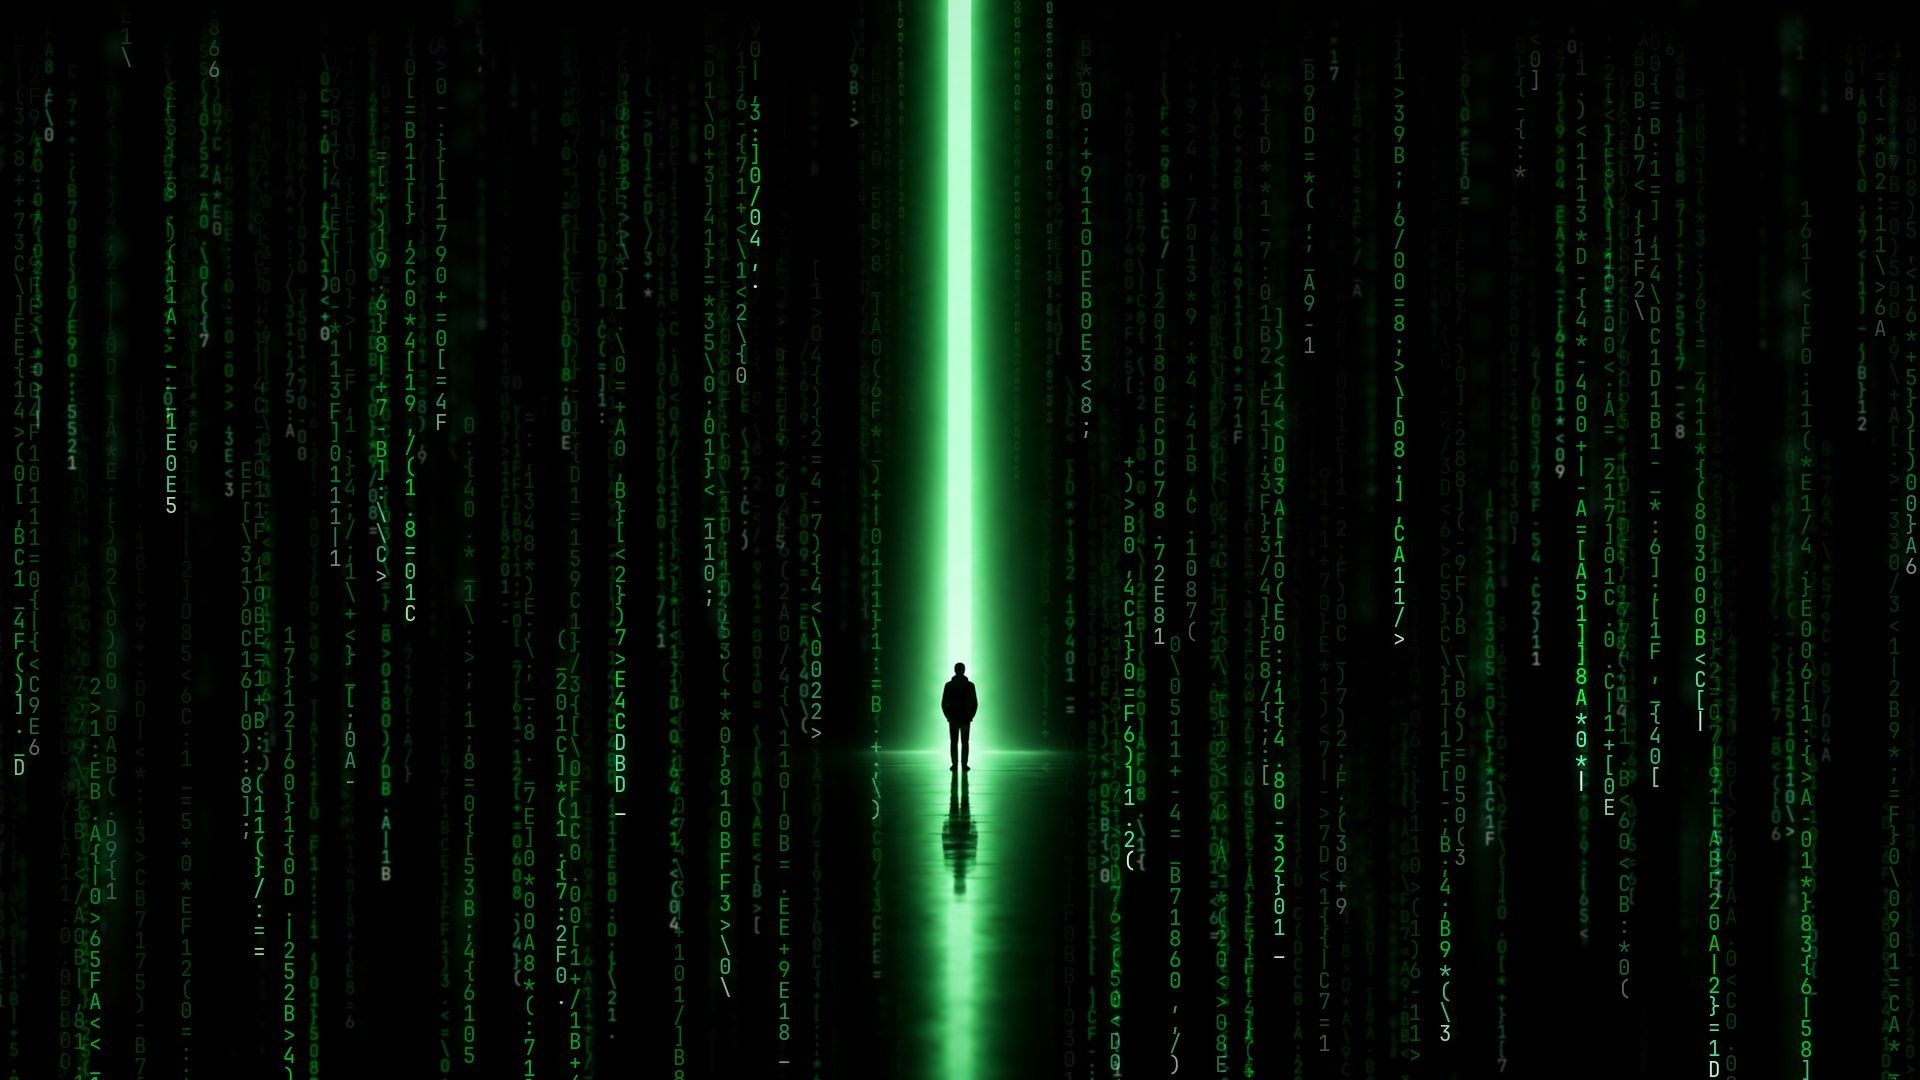
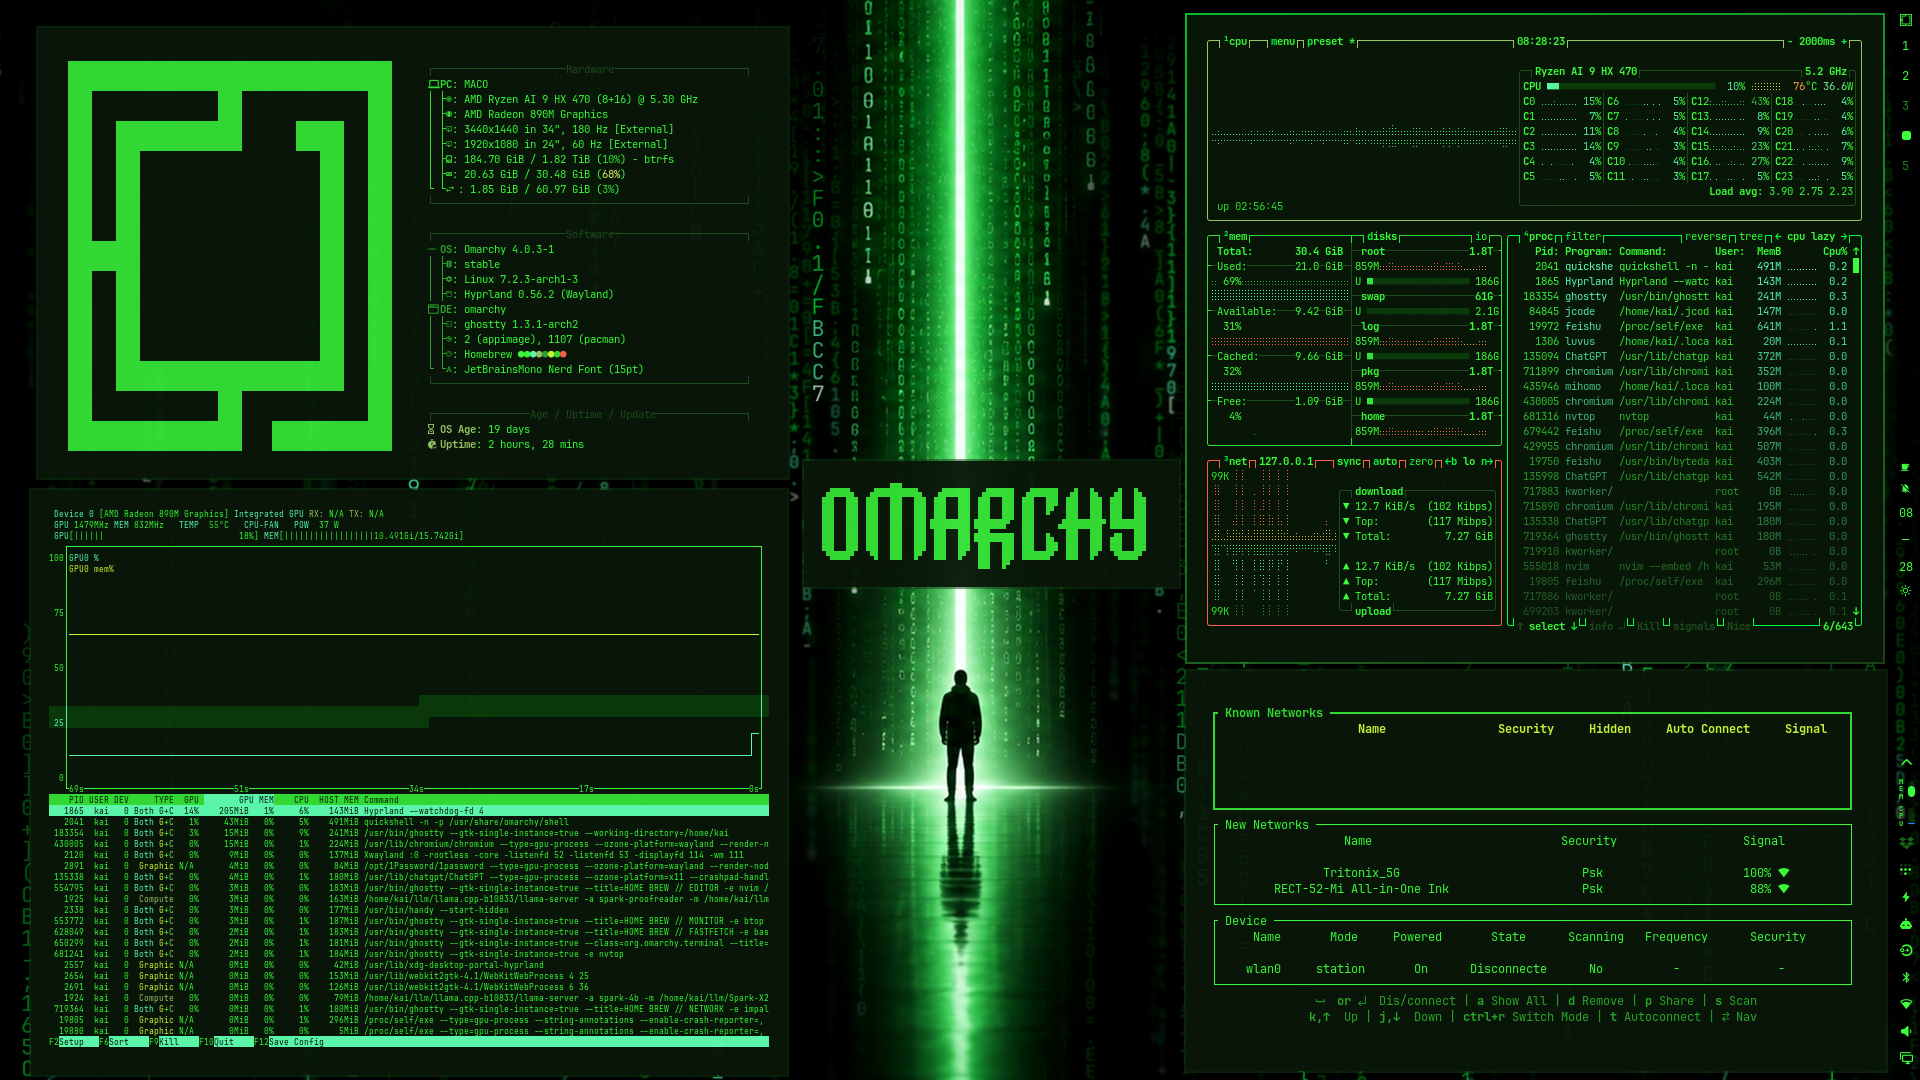
Preview: real-desktop screenshot; drop Plymouth wallpaper misuse
preview.png now shows an actual session (fastfetch, nvtop, btop, impala
around the Omarchy logo window) over the Ascension wallpaper, per the
omarchy-site submission guidance that previews must show a real desktop.

unlock.png and preview-unlock.png previously put an opaque 1920x1080
wallpaper into the Plymouth boot-logo slot, which stock themes fill with
a small transparent logo. Delete both so the boot splash stays on the
default Plymouth theme.

diff --git a/README.md b/README.md
@@ -72,8 +72,8 @@ python tools/render_wallpaper.py \
   --out backgrounds/2-ascension-16x9.jpg --width 1920 --height 1080 --seed 33
 ```
 
-Needs `pillow` and `numpy`. The lock screen (`unlock.png`) reuses the 16:9
-render.
+Needs `pillow` and `numpy`. The boot splash stays on Omarchy's default
+Plymouth theme.
 
 ## Applying a change to a running desktop
 
